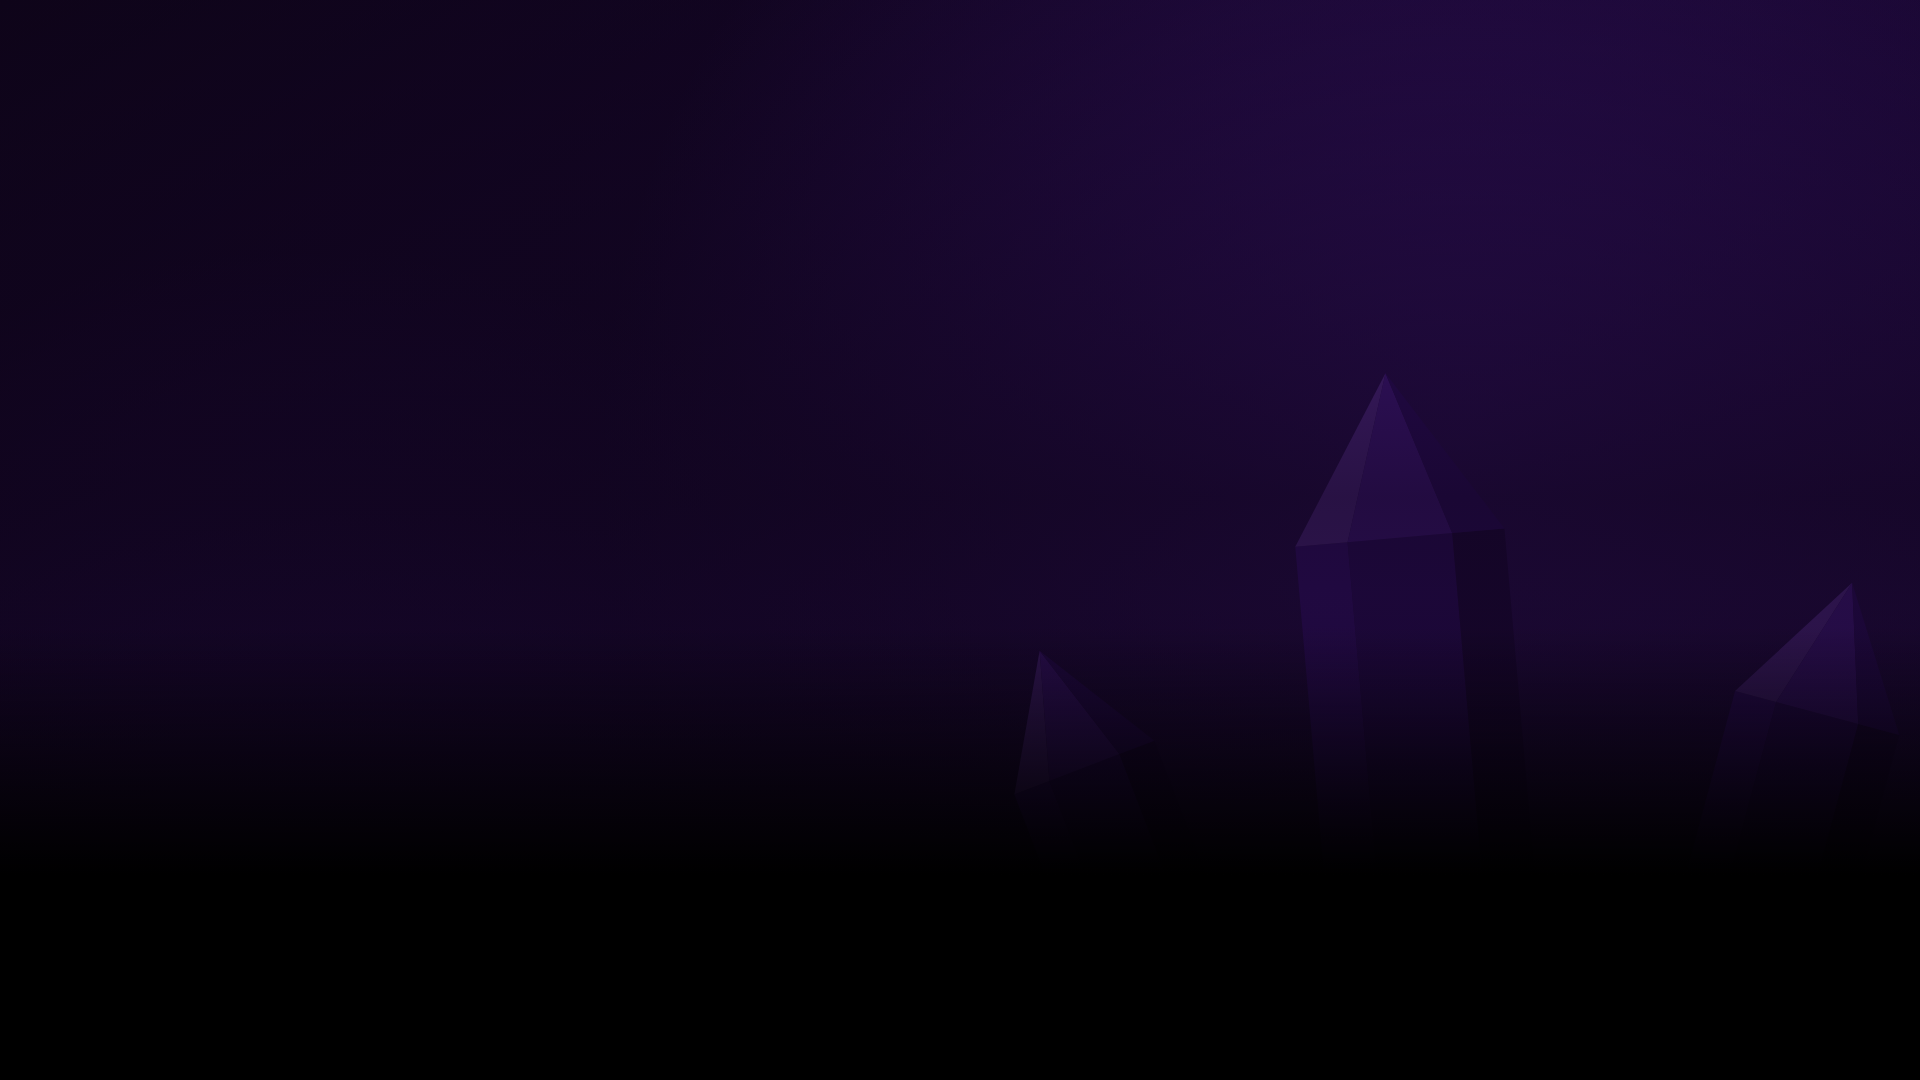
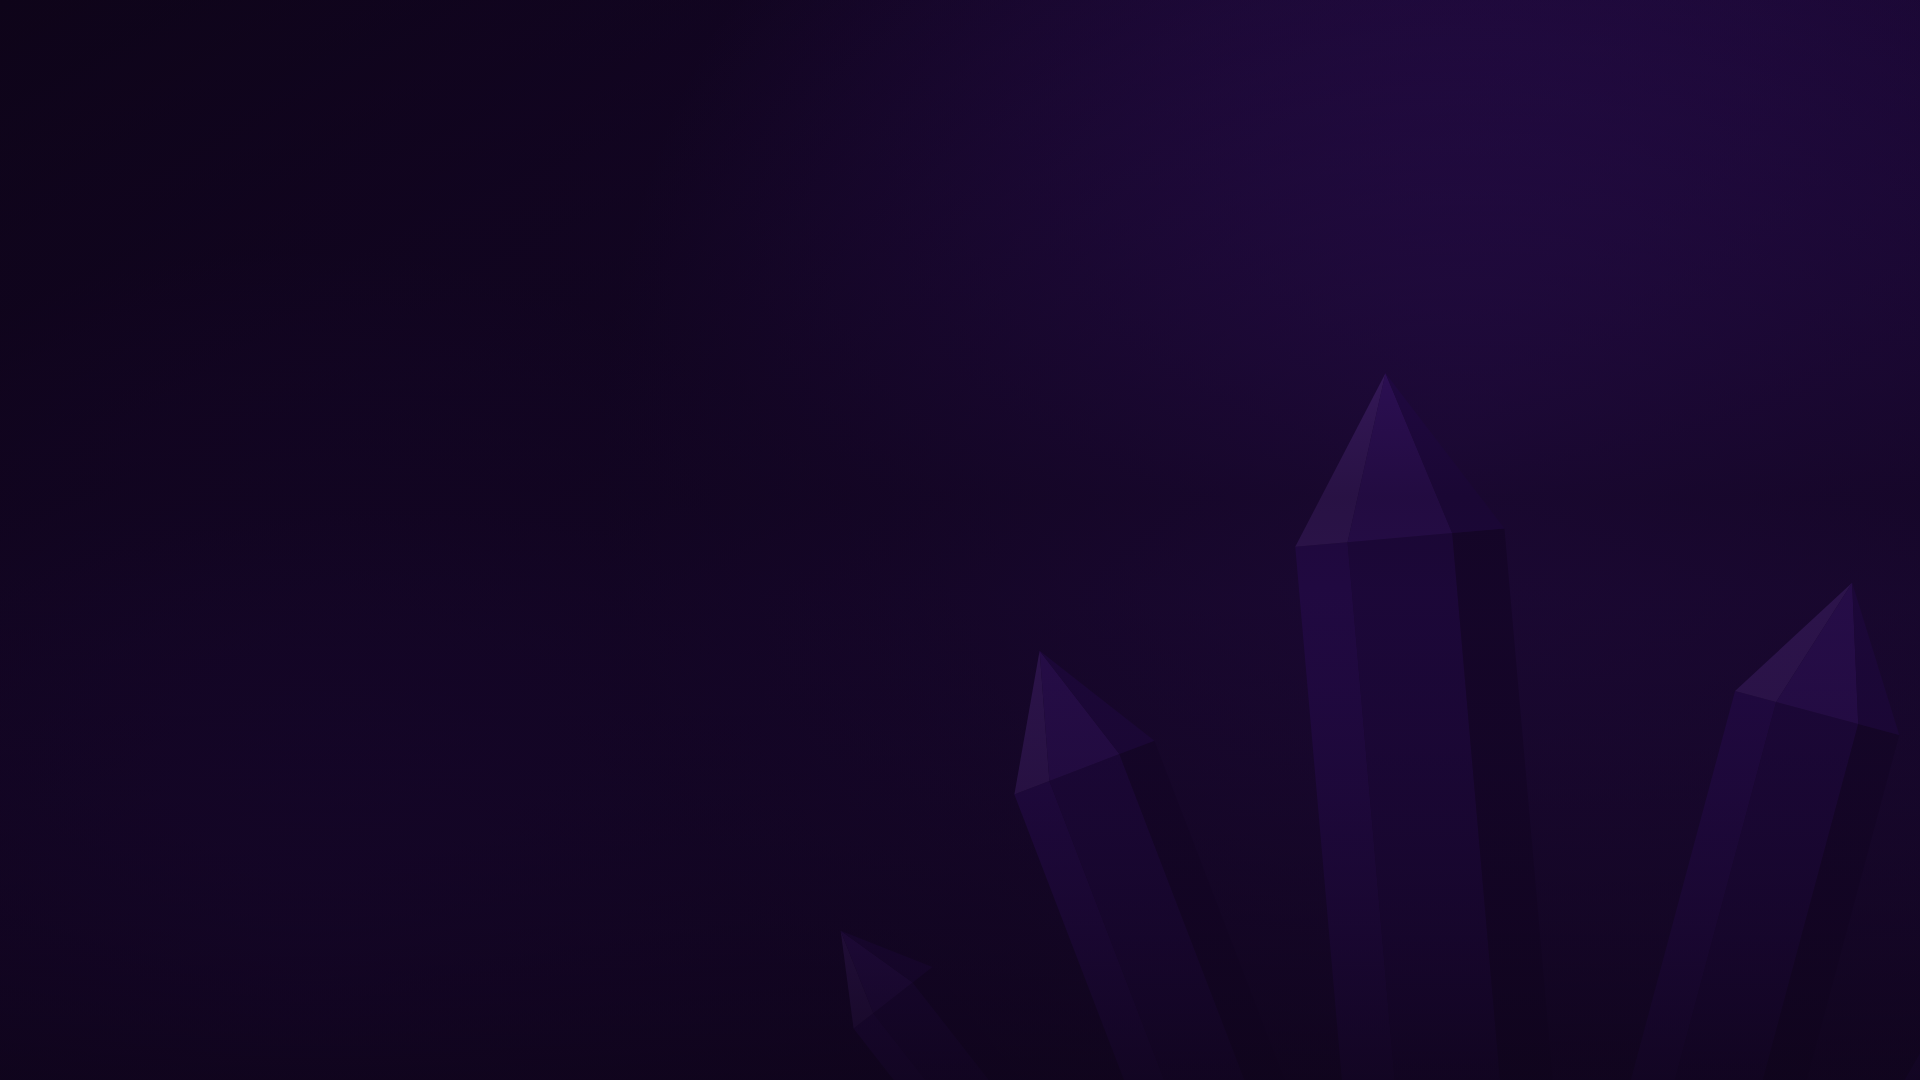
fix(grub): the screen goes black after choosing what to boot, with no box over the menu
GRUB's terminal, shown once an entry is chosen, is black (the signed GRUB has no background_color). Laid along the bottom 18 %
it still showed as a box that hid the menu's text. It now fills the screen, so choosing an entry turns the whole screen black
until the splash, and `c` and `e` give a whole-screen terminal. The black floor painted into the picture for the old box is gone:
background.png is the one from before e26bbd64, which the generator draws again without it.

Assisted-by: Claude Opus 5.5 via Claude Code

Changed region(s): [[0.0, 0.6417, 1.0, 1.0]]

diff --git a/tests/real/checklist/50-beta.md b/tests/real/checklist/50-beta.md
@@ -143,5 +143,5 @@ What the VM lab could not settle on 2026-11-01, each to be seen here first (deta
 - [x] B-OPEN-06 Multi-screen bars and dock. How: with two screens, the bar and the dock on every screen as above, a fullscreen window on screen 2, then push against its top; maximise on screen 1. Expect: screen 2's bar hides and peeks; screen 1's dock hides for the maximised window. [needs: two screens] → PASS (headless shell, image beta-45.20261101 with main on the /usr overlay): two virtual screens: screen 2's bar and dock hide for a fullscreen window on the workspace it shows, its bar peeks on a push, and screen 1's dock hides for a maximised window. Real screens not used (Seen before 51dc9f15 moved the default to the main screen alone: this result is from the bar and dock on every screen.)
 - [-] B-OPEN-07 The installer and the sealed image. How: install the beta from its ISO, and once from the live ISO's sealed installer, on a spare disk. Expect: both start, ask the LUKS passphrase, and sign the account in. [needs: a spare disk] → N/A: no spare disk, only nvme0n1
 - [x] B-OPEN-08 A Log out button in quick settings. How: open quick settings, press Log out. Expect: five buttons with their words whole, GNOME's question with its countdown, and Log Out… in the Power menu too, on a machine with one account. → PASS (the maintainer, real session, 2026-11-02): pressed on the real session, and it works. The button was taken out again on 2026-11-03 for GNOME 51's own Log Out… in the Power menu, which always-show-log-out keeps on a machine with one account
-- [ ] B-OPEN-09 No black box after the boot menu. How: restart, choose an entry; log out too. Expect: the menu's picture stays whole until the splash, with no black rectangle; `c` and `e` in the menu still give a terminal to work in along the bottom. → NOT DONE: needs a restart, which ends the session doing this
+- [ ] B-OPEN-09 No black box after the boot menu. How: restart, choose an entry; log out too. Expect: the screen goes all black until the splash, with no rectangle over the picture; `c` and `e` in the menu give a whole-screen terminal. → NOT DONE: the box along the bottom (2026-11-02) still hid the text (the maintainer, 2026-11-04); now whole-screen, needs a restart
 - [x] B-OPEN-10 The dock with a screen stacked below the main one. How: two screens, one under the other; open and maximise a window on the main screen, with the dock on the main screen and then on every screen. Expect: the dock stays on each screen it is on, windows stop above it, and none appears on the screen below. → FIXED 2d161437, 636a59c8: it hid by sliding onto the lower screen, and hid at all only because its edge was shared; PASS (the maintainer, real session, 2026-11-03)
